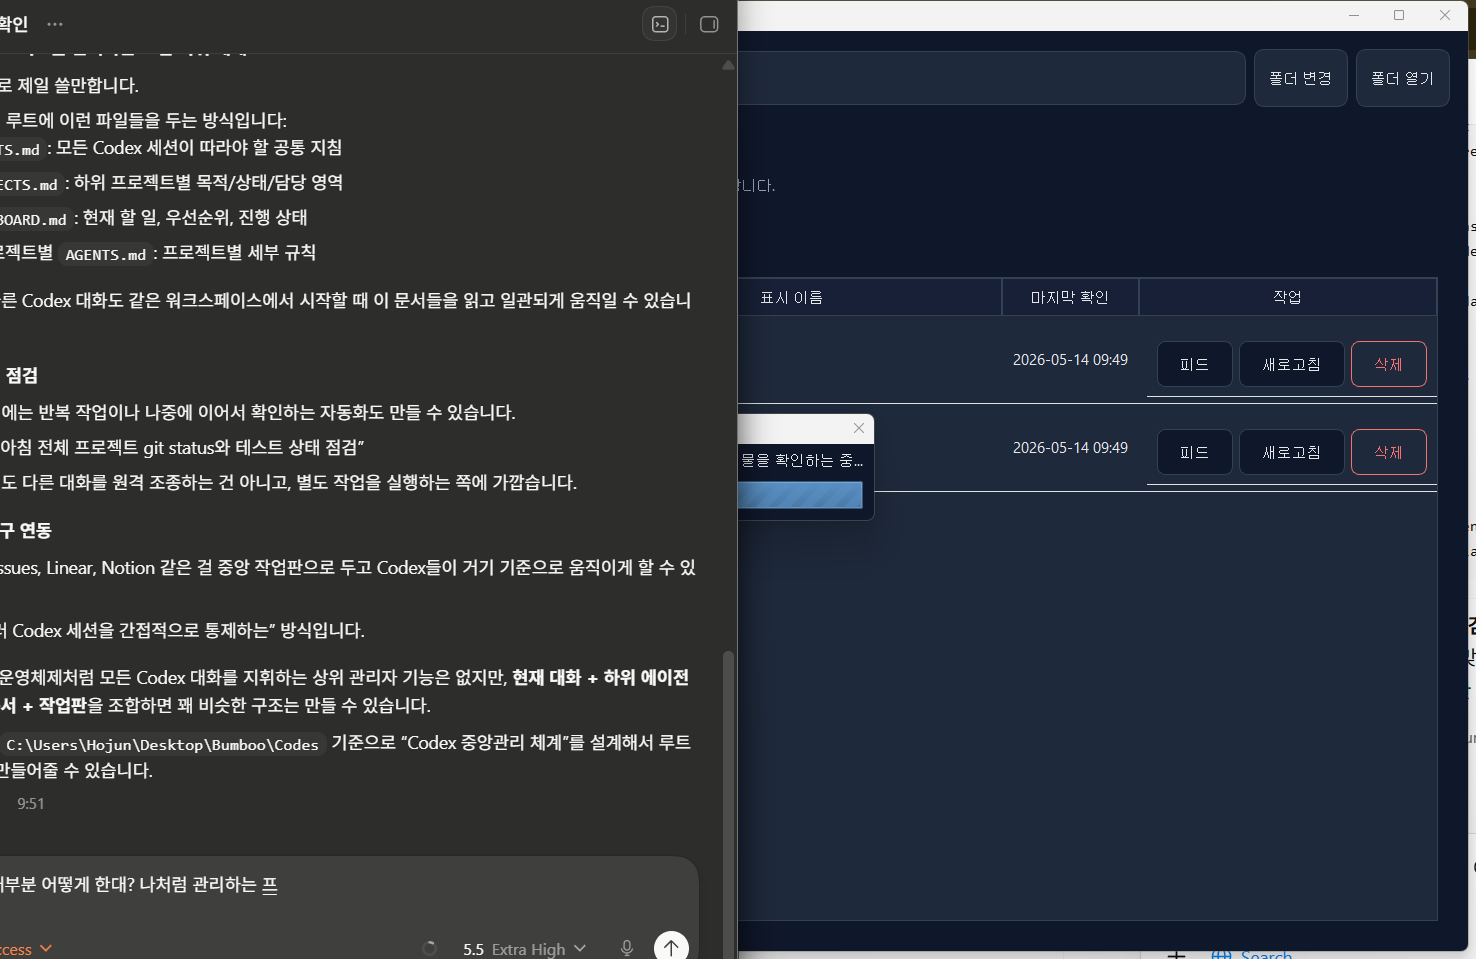
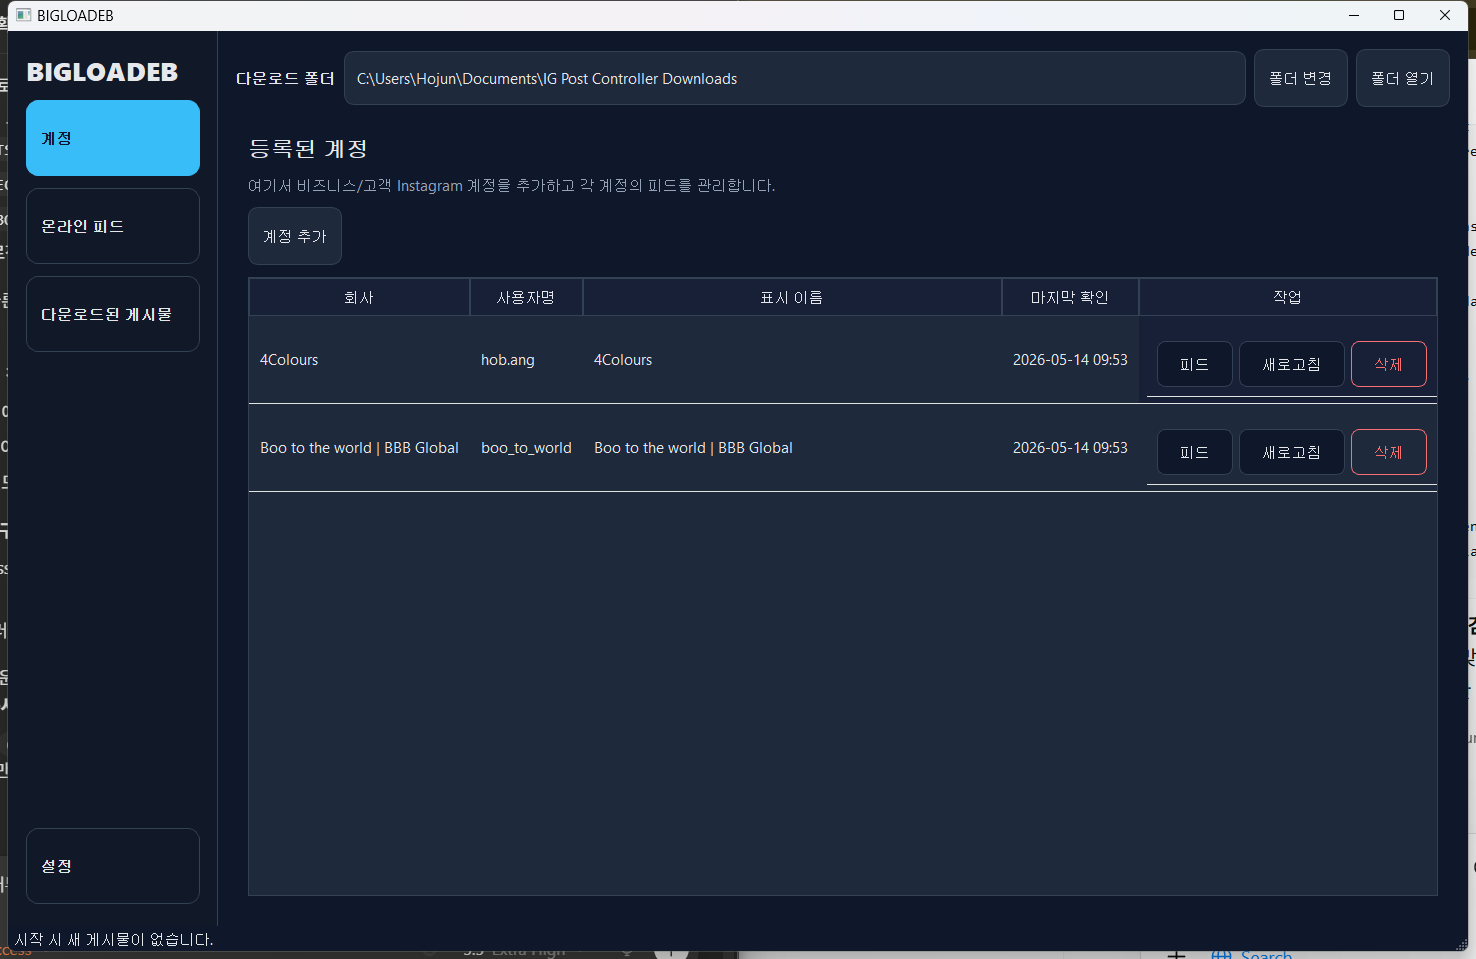
docs: clarify demo walkthrough

diff --git a/README.md b/README.md
@@ -85,8 +85,14 @@ The application version is stored in `ig_post_controller/version.py` as `__versi
 4. 왼쪽에서 `다운로드된 게시물`을 선택합니다.
 5. 저장된 게시물 카드에서 썸네일, 캡션, `다시 다운로드`, `삭제` 버튼을 확인합니다.
 
+앱이 열리면 왼쪽 메뉴에서 `계정`을 선택합니다. 등록된 계정 행에 있는 `피드` 버튼을 눌러 계정별 게시물 확인을 시작합니다.
+
 ![Registered account list](docs/demo-screenshots/bigloadeb-use-01-account-list.png)
 
+피드 확인 후에는 같은 계정 목록에서 최근 확인 시간과 실행 가능한 버튼 상태를 확인합니다.
+
 ![Feed check result](docs/demo-screenshots/bigloadeb-use-02-feed-result.png)
+
+`다운로드된 게시물` 메뉴로 이동하면 저장된 게시물 카드가 나오며, 여기서 썸네일, 캡션, 다시 다운로드/삭제 버튼을 확인할 수 있습니다.
 
 ![Downloaded posts](docs/demo-screenshots/bigloadeb-use-03-downloaded-posts.png)
